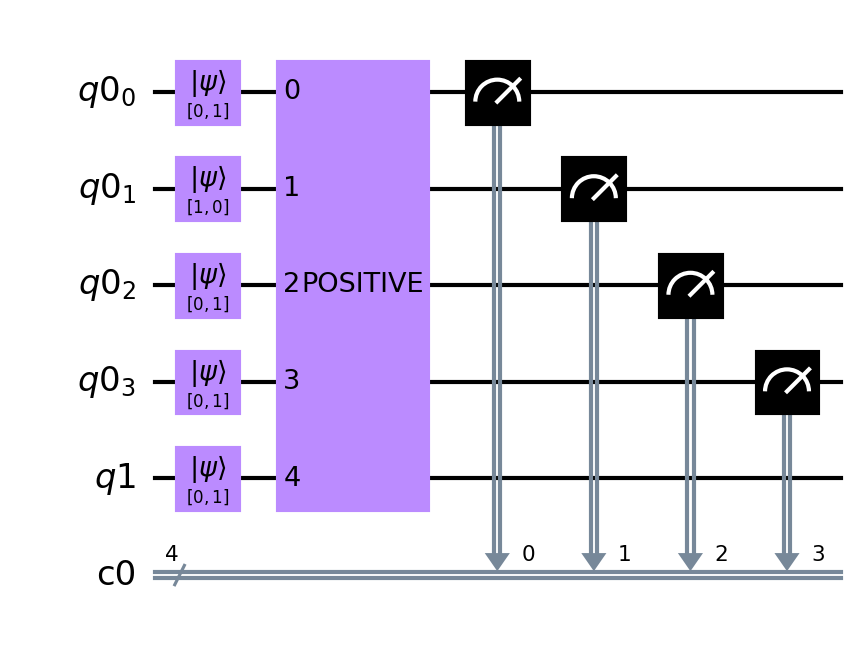
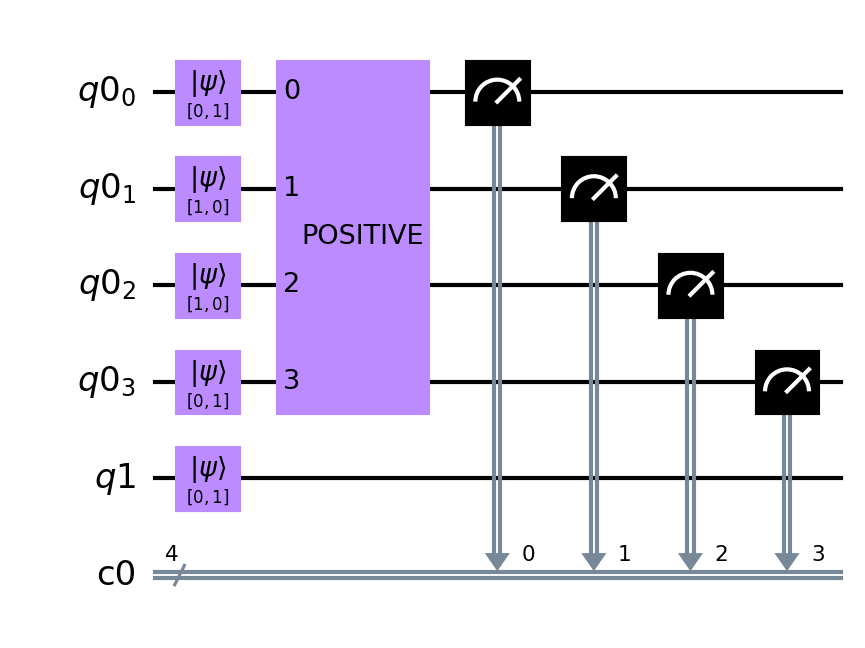
better_get_absolute_value

Changed region(s): [[0.3121, 0.6173, 0.4994, 0.8025], [0.3434, 0.3395, 0.4994, 0.463], [0.2185, 0.463, 0.2497, 0.4938]]

diff --git a/floating_point.py b/floating_point.py
@@ -217,16 +217,13 @@ def equal_numbers(x_bits):
 
 
 # function to get the modulo value of a x_bits negative number
-# |x> |1> -> |-x> |1>
+# |x> -> |-x>
 def get_positive(x_bits):
     a = QuantumRegister(x_bits)
-    b = QuantumRegister(1)
-
-    circ = QuantumCircuit(a, b, name = "POSITIVE")
-    for i in range(x_bits):
+    
+    circ = QuantumCircuit(a, name = "POSITIVE")
+    for i in range(x_bits - 1):
         circ.x(a[i])
-
-    circ.cnot(b, a[-1])
 
     for i in range(x_bits - 1, 0, -1):
         circ.x(a[i])
@@ -315,7 +312,7 @@ def find_modulo_testing(number):
     initialize_states(circ, a, fp.E_bits)
     initialize_states(circ, b, [[0, 1]])
 
-    circ.append(get_positive(bits_number), [*a] + [*b])
+    circ.append(get_positive(bits_number), [*a])
 
     for i in range(bits_number):
         circ.measure(a[i], cl[i])
@@ -330,4 +327,7 @@ def find_modulo_testing(number):
     counts = result.get_counts(0)
     plot_histogram(counts, title='Output value', filename='pics/histogram_modulo.png')
 
-find_modulo_testing(-5)
+
+# find_modulo_testing(-7)
+# get_positive(5)
+
